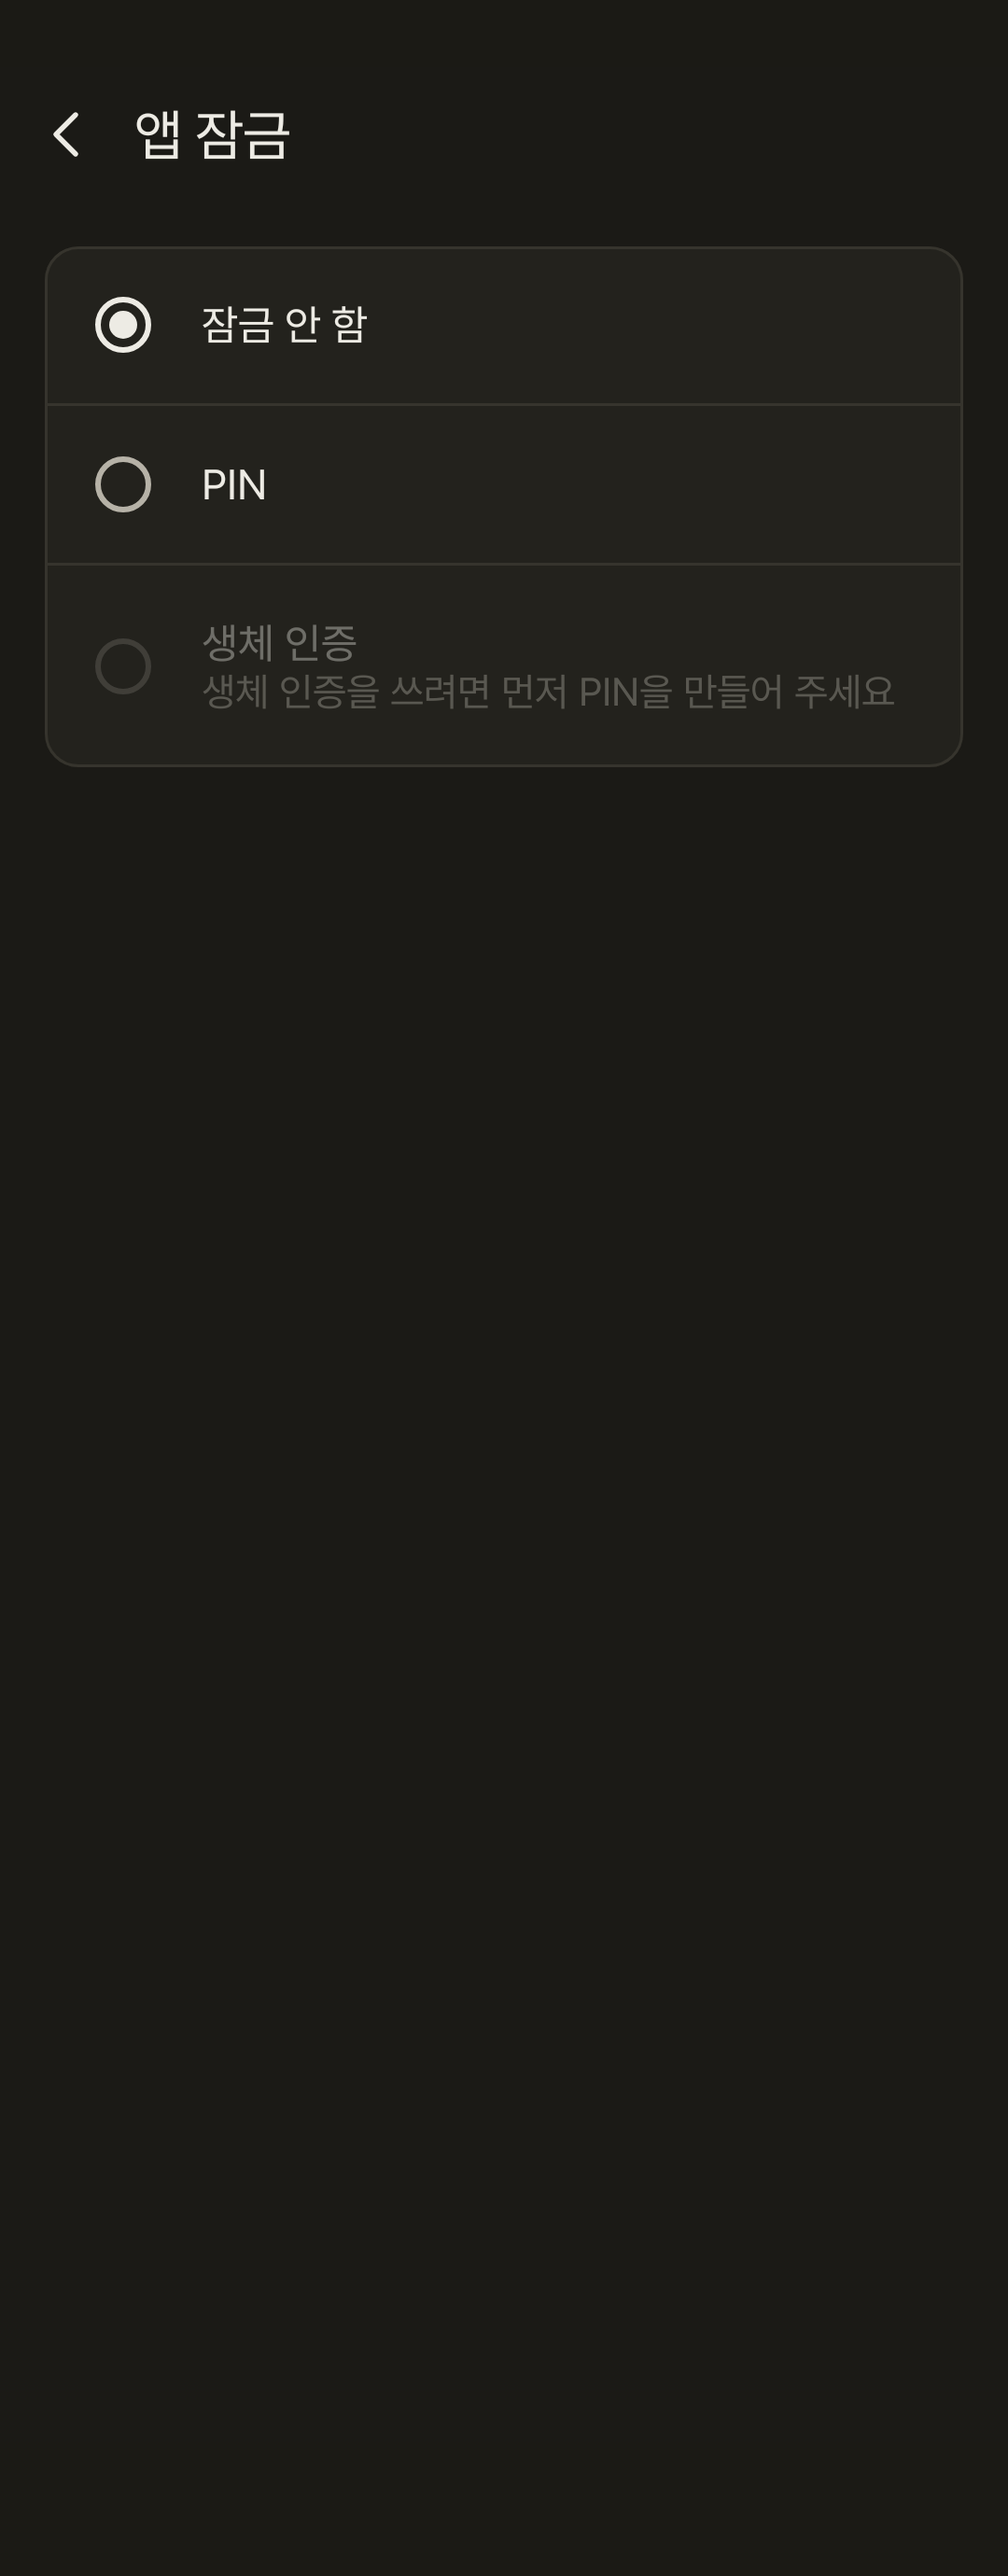
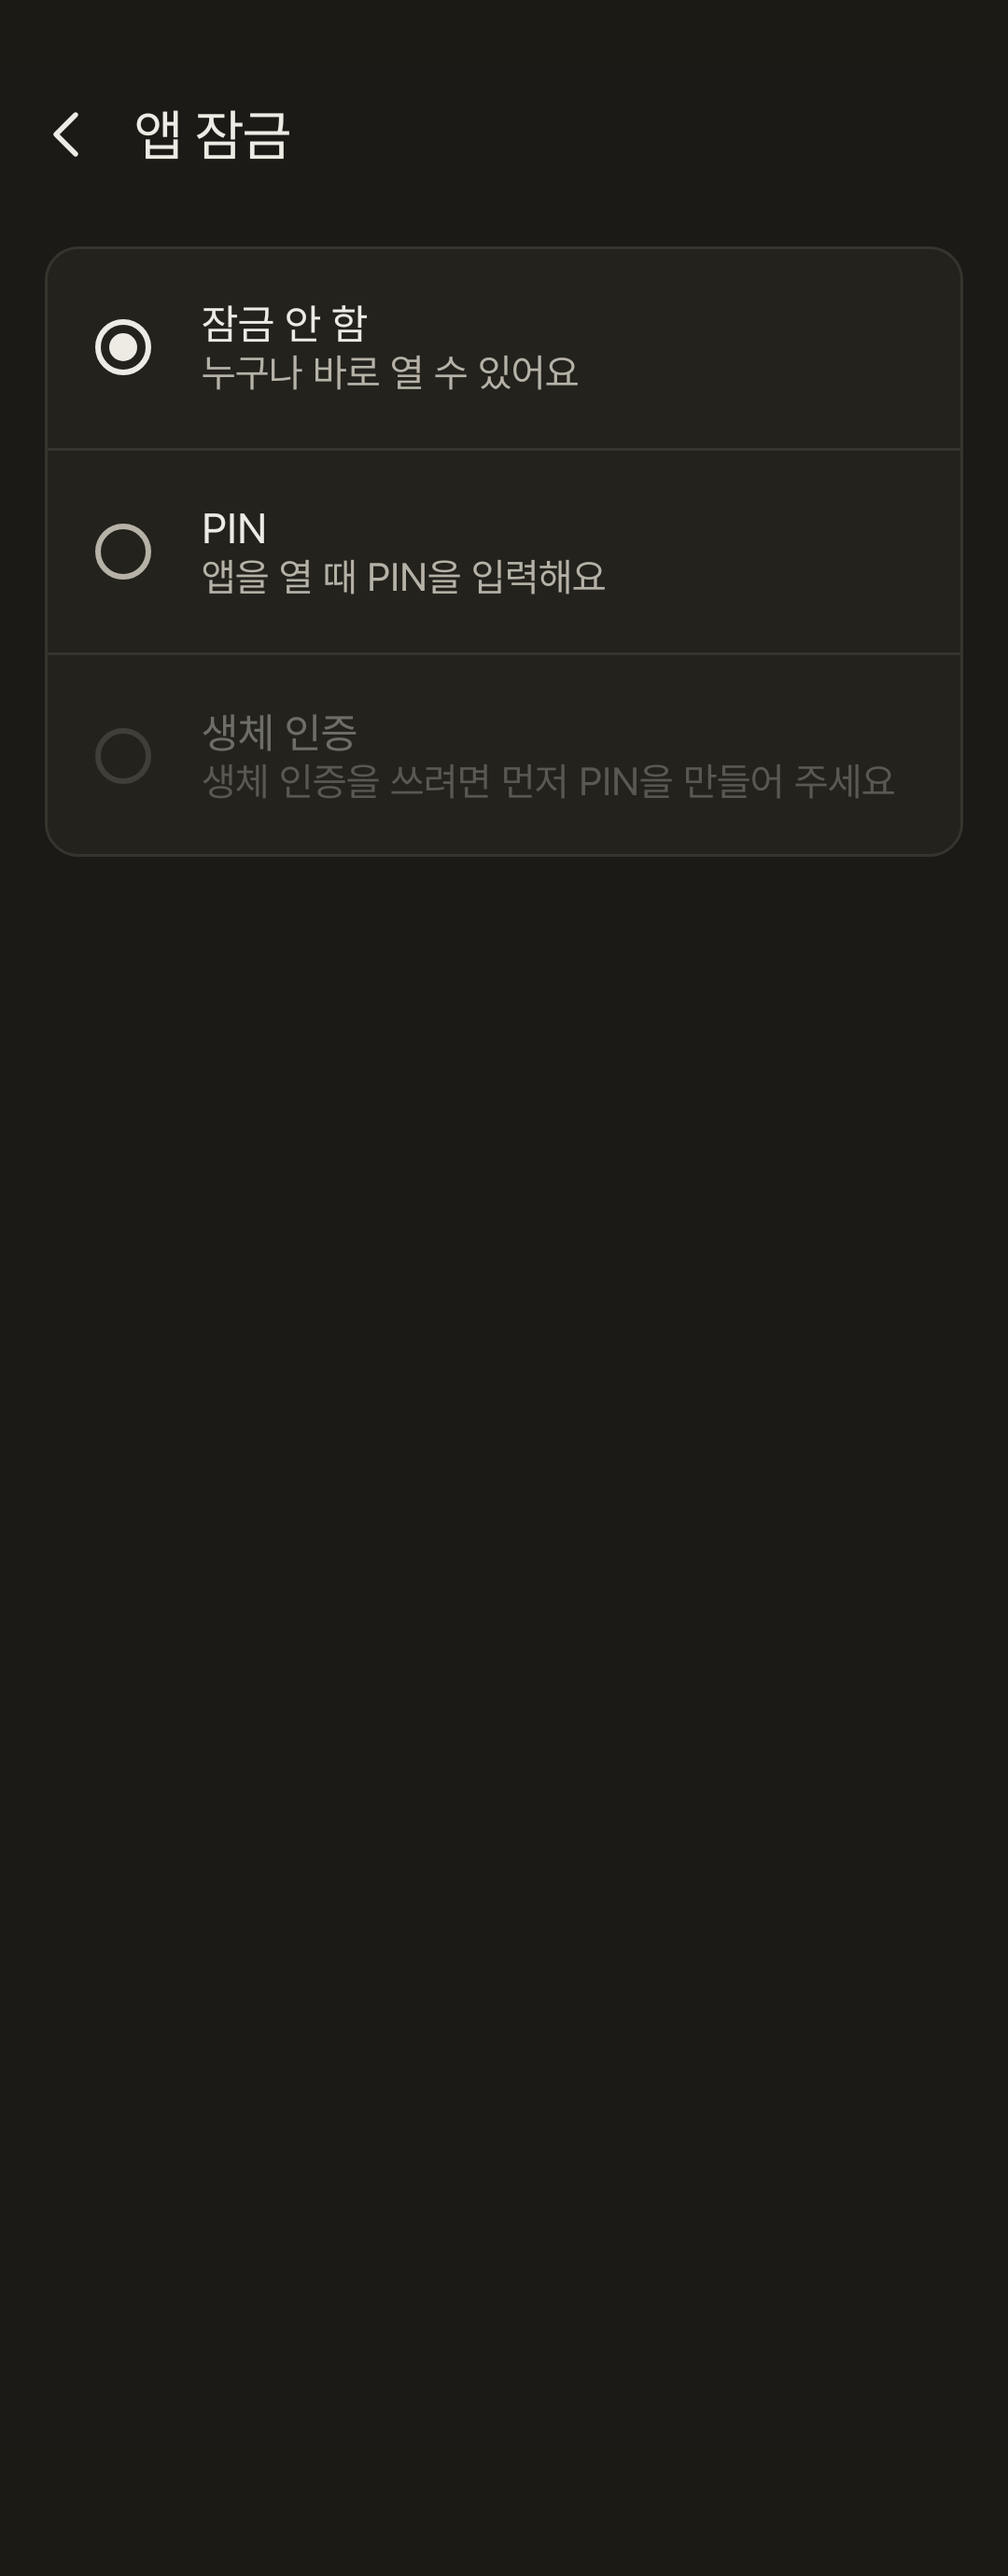
fix(lock): add lock option descriptions

diff --git a/app/src/test/java/org/parkjw/apps/pdfbook/lock/LockScreensTest.kt b/app/src/test/java/org/parkjw/apps/pdfbook/lock/LockScreensTest.kt
@@ -173,6 +173,34 @@ class LockScreensTest {
     }
 
     @Test
+    fun l5_lockOptionsShowDescriptions() {
+        var config by mutableStateOf(LockConfig())
+        composeRule.setContent {
+            PdfBookTheme(themeMode = ThemeMode.Light) {
+                AppLockSettingsScreen(
+                    config = config,
+                    session = AppLockState(),
+                    biometricAvailable = true,
+                    onBack = {},
+                    onAuthenticated = {},
+                    onVerify = { pin, _ -> pin.fill('\u0000'); PinVerify.Wrong },
+                    onSavePin = { pin, _ -> pin.fill('\u0000') },
+                    onSetMode = { false },
+                    onSetHideInRecents = {},
+                )
+            }
+        }
+        composeRule.onNodeWithText(text(R.string.app_lock_none_desc)).assertExists()
+        composeRule.onNodeWithText(text(R.string.app_lock_pin_desc)).assertExists()
+        composeRule.onNodeWithText(text(R.string.app_lock_biometric_desc)).assertDoesNotExist()
+        config = LockConfig(mode = AppLockMode.Pin, pinHash = "h", pinSalt = "s", pinLength = 4, hideInRecents = true)
+        composeRule.waitForIdle()
+        composeRule.onNodeWithText(text(R.string.app_lock_biometric_desc)).assertExists()
+        composeRule.onNodeWithText(text(R.string.app_lock_biometric_needs_pin)).assertDoesNotExist()
+        assertEquals("지문이나 얼굴로 열고, 안 되면 PIN을 써요", text(R.string.app_lock_biometric_desc))
+    }
+
+    @Test
     fun l5_noneModeHidesPinChangeAndHideInRecents() {
         composeRule.setContent {
             PdfBookTheme(themeMode = ThemeMode.Light) {

diff --git a/app/src/main/java/org/parkjw/apps/pdfbook/lock/AppLockSettingsScreen.kt b/app/src/main/java/org/parkjw/apps/pdfbook/lock/AppLockSettingsScreen.kt
@@ -279,18 +279,21 @@ private fun LockChoice(
         AppLockMode.Pin -> stringResource(R.string.app_lock_pin)
         AppLockMode.Biometric -> stringResource(R.string.app_lock_biometric)
     }
+    val description = supporting ?: when (mode) {
+        AppLockMode.None -> stringResource(R.string.app_lock_none_desc)
+        AppLockMode.Pin -> stringResource(R.string.app_lock_pin_desc)
+        AppLockMode.Biometric -> stringResource(R.string.app_lock_biometric_desc)
+    }
     ListItem(
         headlineContent = {
             Text(label, style = MaterialTheme.typography.bodyLarge)
         },
-        supportingContent = supporting?.let {
-            {
-                Text(
-                    it,
-                    style = MaterialTheme.typography.bodyMedium,
-                    color = MaterialTheme.colorScheme.onSurfaceVariant,
-                )
-            }
+        supportingContent = {
+            Text(
+                description,
+                style = MaterialTheme.typography.bodyMedium,
+                color = MaterialTheme.colorScheme.onSurfaceVariant,
+            )
         },
         leadingContent = {
             RadioButton(
